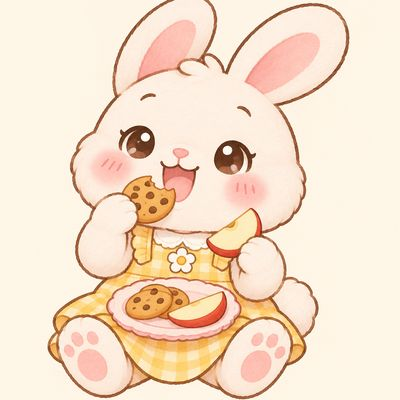
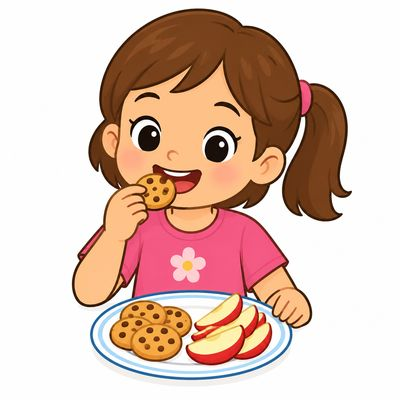
Milo 새 그림 12장을 지금 앱과 같은 흰 바탕 단어카드 스타일로 다시 그림
Claude-Session: https://claude.ai/code/session_018hU1ZHLL96GyEgi9RdwoQ8

diff --git a/작업메모.md b/작업메모.md
@@ -67,5 +67,5 @@
 - 아이 학습지(암기용 단어장 1~3, 35단어) 순서와 뜻 그대로 Unit 28을 다시 정리 (20 → 35단어)
 - 새 단어 15개: missing, well, cheer, noise, grin, roll, spot, roof, idea, snack, jump off, land, pass, sigh, shook his head
 - 바뀐 단어: scare → scare away, Creole cream cheese → Creole (그림은 예전 것 그대로)
-- 새 그림 12장은 `img/milo/21_missing.jpg` ~ `32_shook_his_head.jpg` (크림색 동화책 톤). cheer·idea·pass는 워드업 그림(`img/wu/`)을 같이 씀
+- 새 그림 12장은 `img/milo/21_missing.jpg` ~ `32_shook_his_head.jpg`. 지금 앱 그림과 같은 학원 단어카드 스타일(흰 바탕, `gpt_image_2_5`, 위 프롬프트)로 만듦. cheer·idea·pass는 워드업 그림(`img/wu/`)을 같이 씀
 - Milo 유닛은 원래부터 원어민 소리 파일이 없어서 기기 목소리로 읽음
